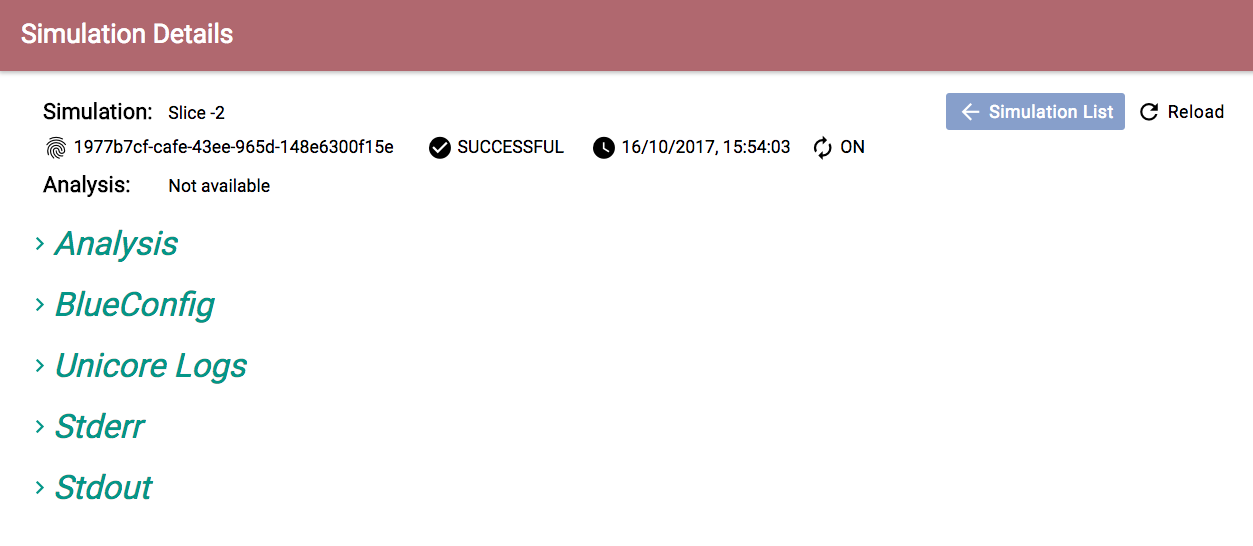
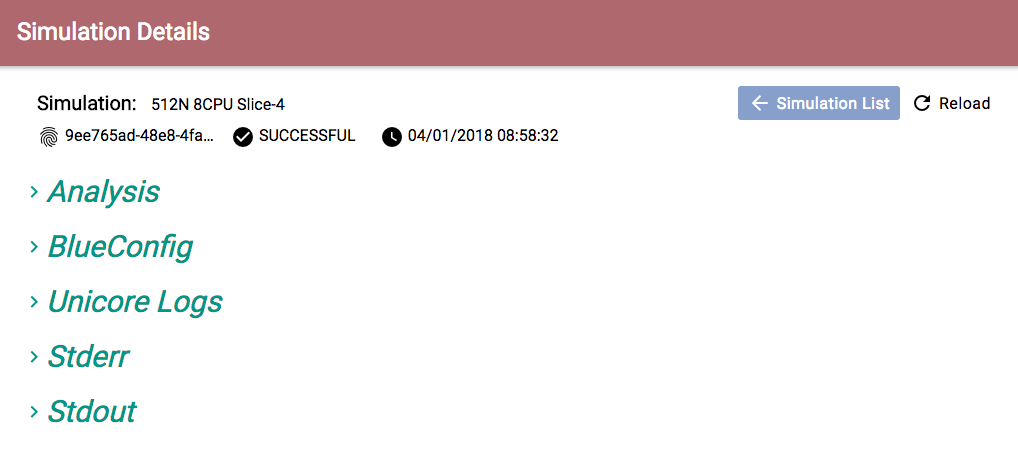
Update simulation app documentation

diff --git a/source/online_usecases/small_circuit_in_silico_experiments/configure_launch_simulation_hbp_data/configure_launch_simulation_hbp_data.rst b/source/online_usecases/small_circuit_in_silico_experiments/configure_launch_simulation_hbp_data/configure_launch_simulation_hbp_data.rst
@@ -147,7 +147,7 @@ From the **top** you are able to see:
 
 |simulation_details_top|
 
-- ``Simulation`` and ``Analysis`` with the following information
+- ``Simulation`` with the following information
 
    - *Name*
    - *ID*
@@ -164,6 +164,11 @@ From the **middle** you are able to see:
    - *Unicore Logs*
    - *Stderr*: Logs of the simulation
    - *Stdout*: Output information of the simulation
+
+In ``Analysis`` section shows the different analysis the user has run
+
+   |simulation_details_analysis|
+
 
 .. |run_simulation| image:: images/run_simulation.png
 .. |run_simulation_top| image:: images/run_simulation_top.png
@@ -183,6 +188,7 @@ From the **middle** you are able to see:
 .. |run_analysis_form| image:: images/run_analysis_form.png
 .. |simulation_details| image:: images/simulation_details.png
 .. |simulation_details_middle| image:: images/simulation_details_middle.png
+.. |simulation_details_analysis| image:: images/simulation_details_analysis.png
 .. |simulation_details_top| image:: images/simulation_details_top.png
 
 
